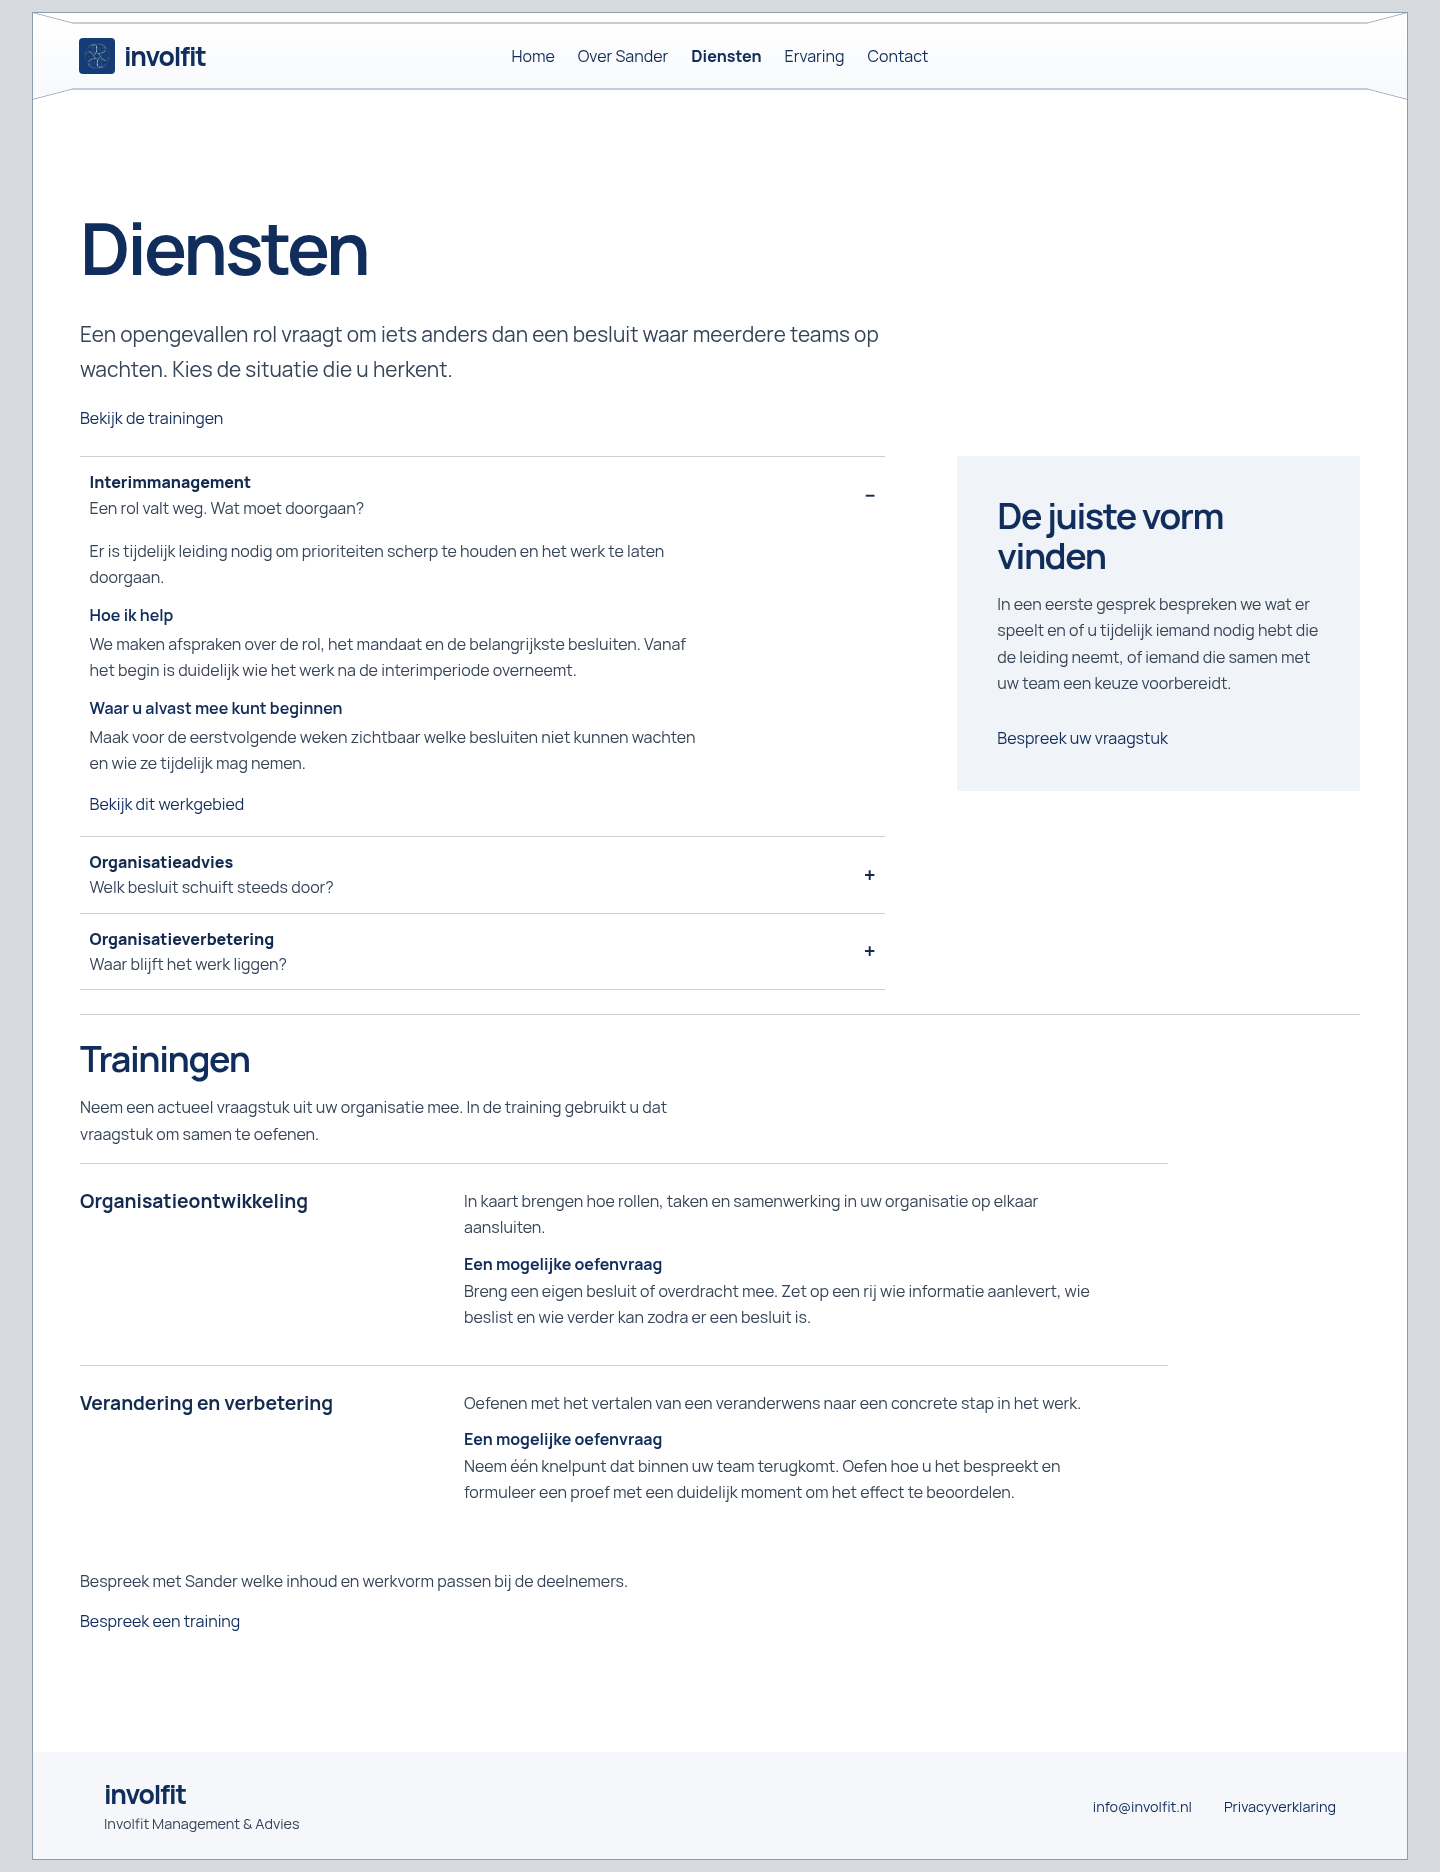
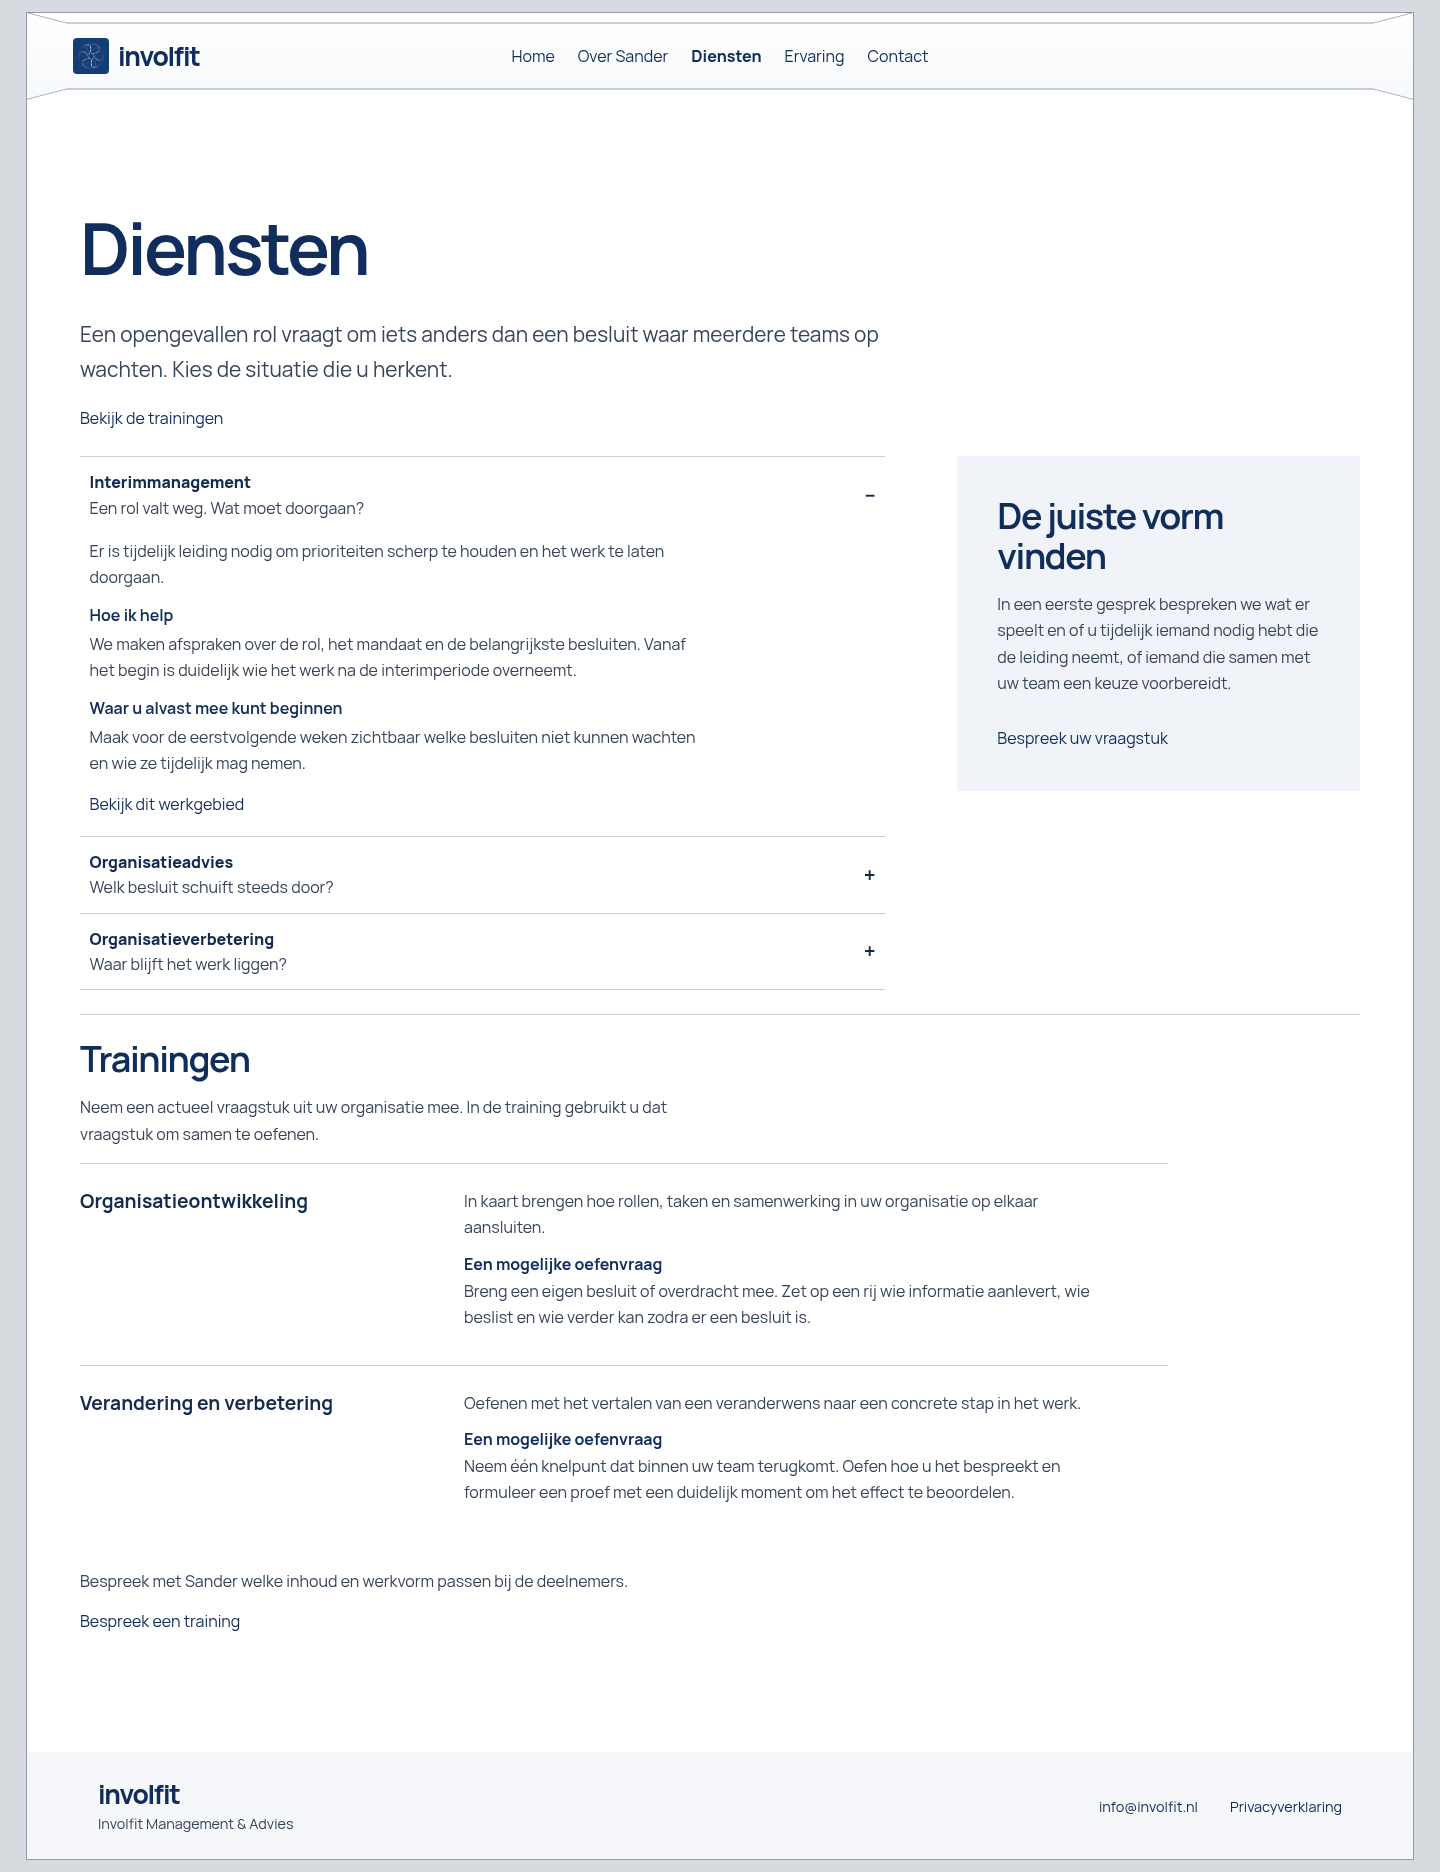
Widen the Involfit frame and selected sections on large screens

diff --git a/projects/involfit/public/site.css b/projects/involfit/public/site.css
@@ -289,3 +289,8 @@ summary { cursor: pointer; min-height: 44px; }
   .hero, .profile-layout, .service-layout, .contact-layout, .work-areas li { grid-template-columns: minmax(0, 1fr); }
   .hero-position { padding-inline: var(--gutter); }
 }
+
+@media (min-width: 90rem) {
+  :root { --frame-width: min(calc(100% - 2 * clamp(.55rem, 1.8vw, 1.75rem)), 106rem); }
+  .introduction, .home-offer { width: min(calc(100% - 2 * var(--gutter)), 100rem); }
+}
